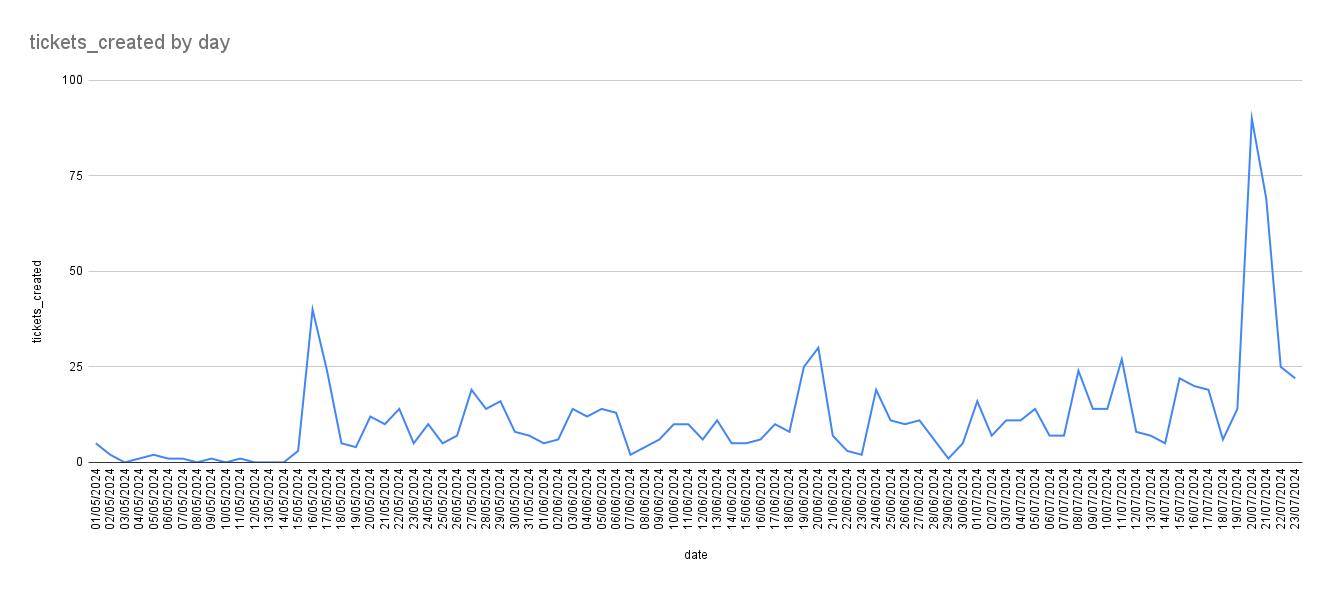
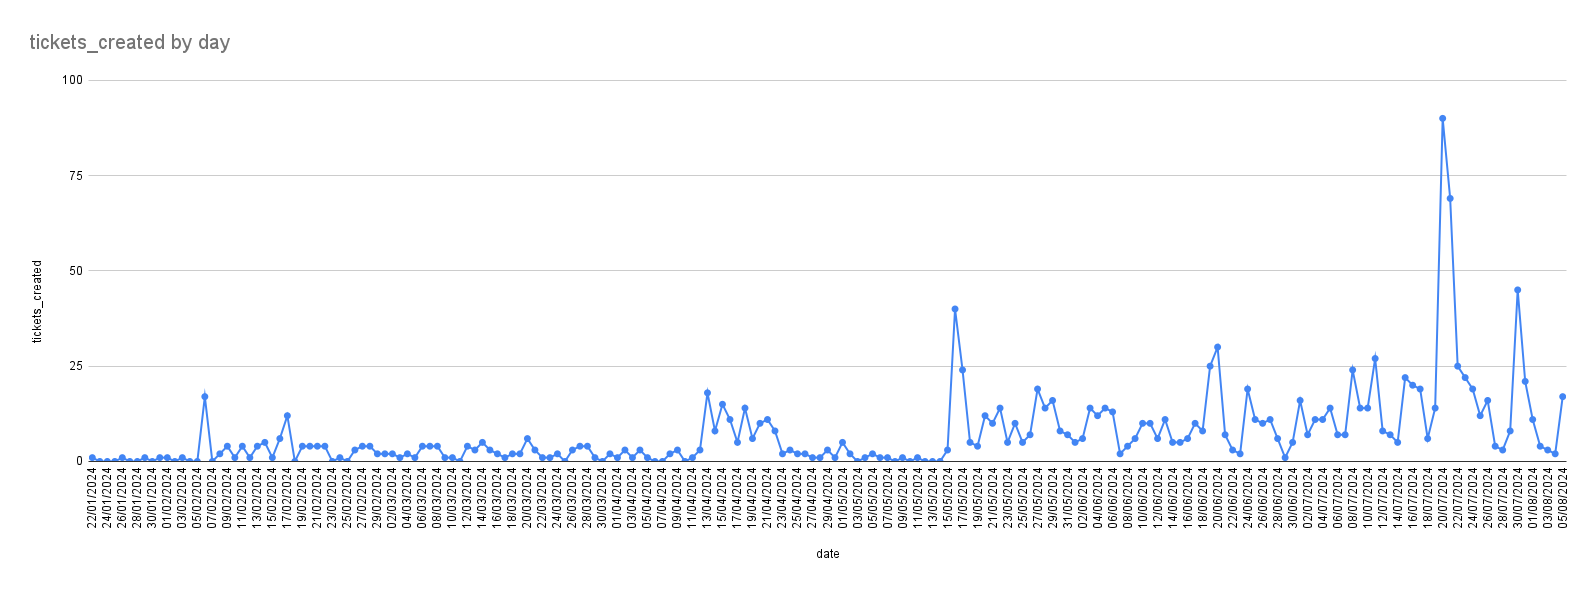
additional charts and updated chart for workload visualization

diff --git a/my-project/docs/communication.md b/my-project/docs/communication.md
@@ -52,7 +52,8 @@ To create charts, you need to customize Freshdesk along with ccreating your own 
 
 You can find examples from 2024 here: [stats folder](figures/InternalCommunicationStats/)
 
-Also, here is one that gives you an idea of the workload to expect:
+Also, here is a couple of charts that gives you an idea of the workload to expect:
+![tickets evolution](figures/InternalCommunicationStats/tickets_created_evolution.png)
 ![tickets created per day](figures/InternalCommunicationStats/tickets_created_per_day.png)
 
 ### Tips and Tricks
